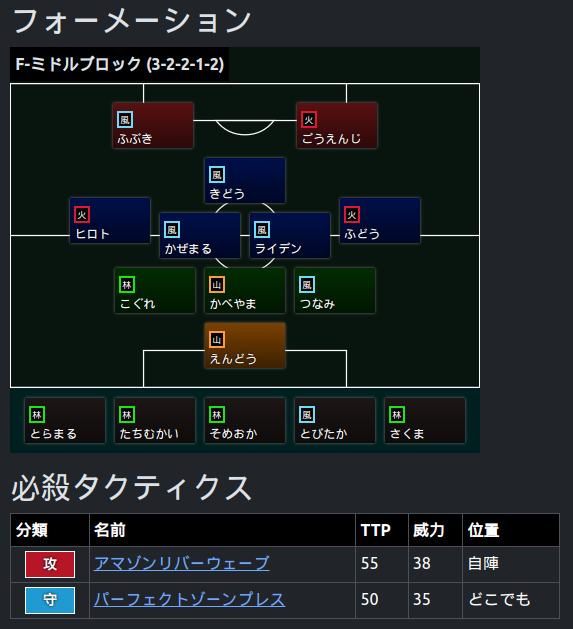
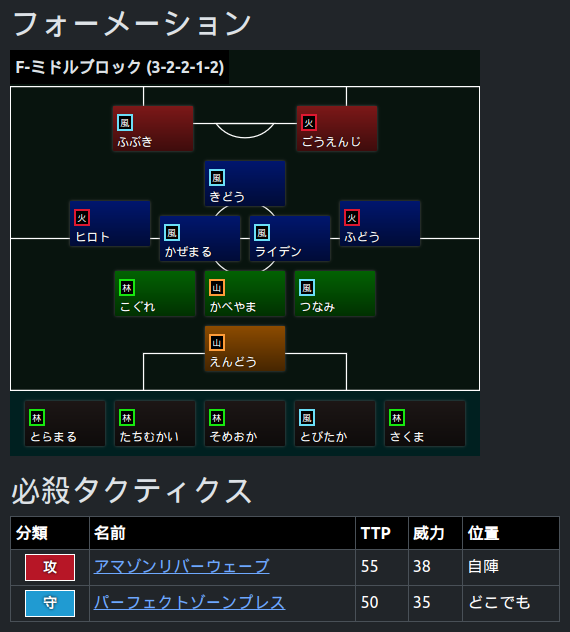
formation color correction

diff --git a/src/main/resources/static/css/formation.css b/src/main/resources/static/css/formation.css
@@ -1,8 +1,8 @@
 :root {
-    --zone-fw-color: #581111;
-    --zone-mf-color: #000f4a;
-    --zone-df-color: #012c01;
-    --zone-gk-color: #7a4100;
+    --zone-fw-color: #7c1818;
+    --zone-mf-color: #00166e;
+    --zone-df-color: #026202;
+    --zone-gk-color: #8c4b00;
     --zone-bench-color: #1c1615;
 
     --formation-field-bg: #08140e;
@@ -44,7 +44,7 @@
 
 .formation-player {
     /* border: 1px solid white; */
-    box-shadow: 0px 0px 3px 0px #737373;
+    box-shadow: 0px 0px 3px 0px #515151;
     border-radius: 1px;
     width: 80px;
     height: 45px;
@@ -109,6 +109,7 @@
 .formation-example {
     padding: 0px;
     box-shadow: 0px 0px 3px 0px #737373;
+    background-image: linear-gradient(rgba(0, 0, 0, 0), rgba(0, 0, 0, 0.5)) !important;
     font-weight: bold;
     width: 30px;
     display: block;
